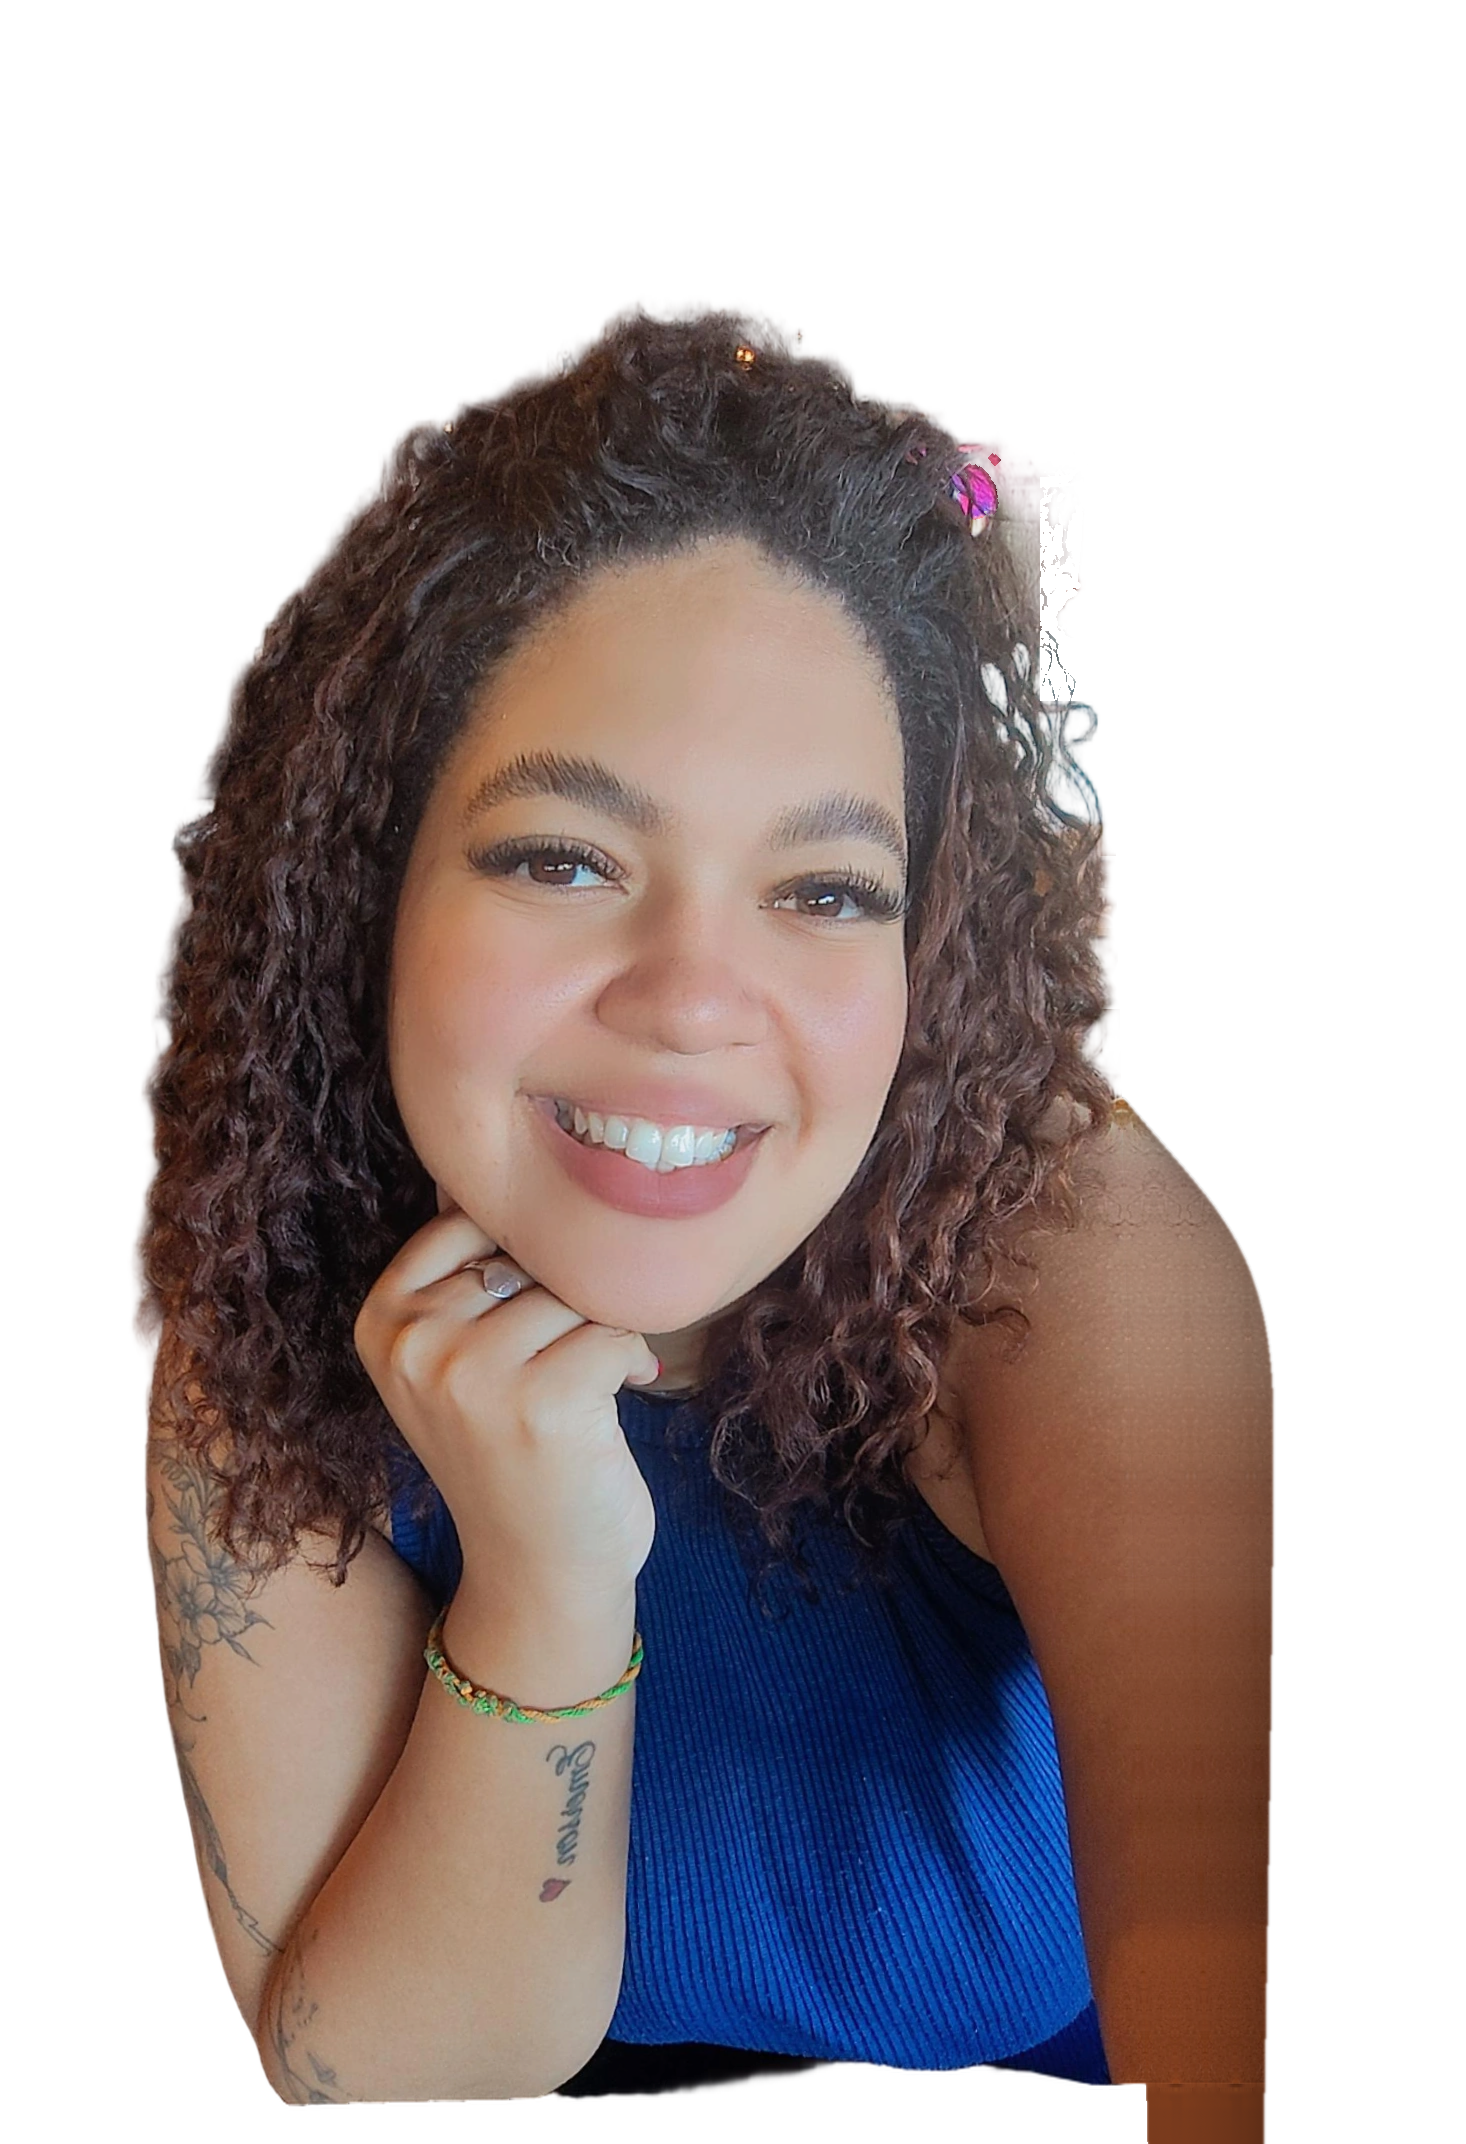
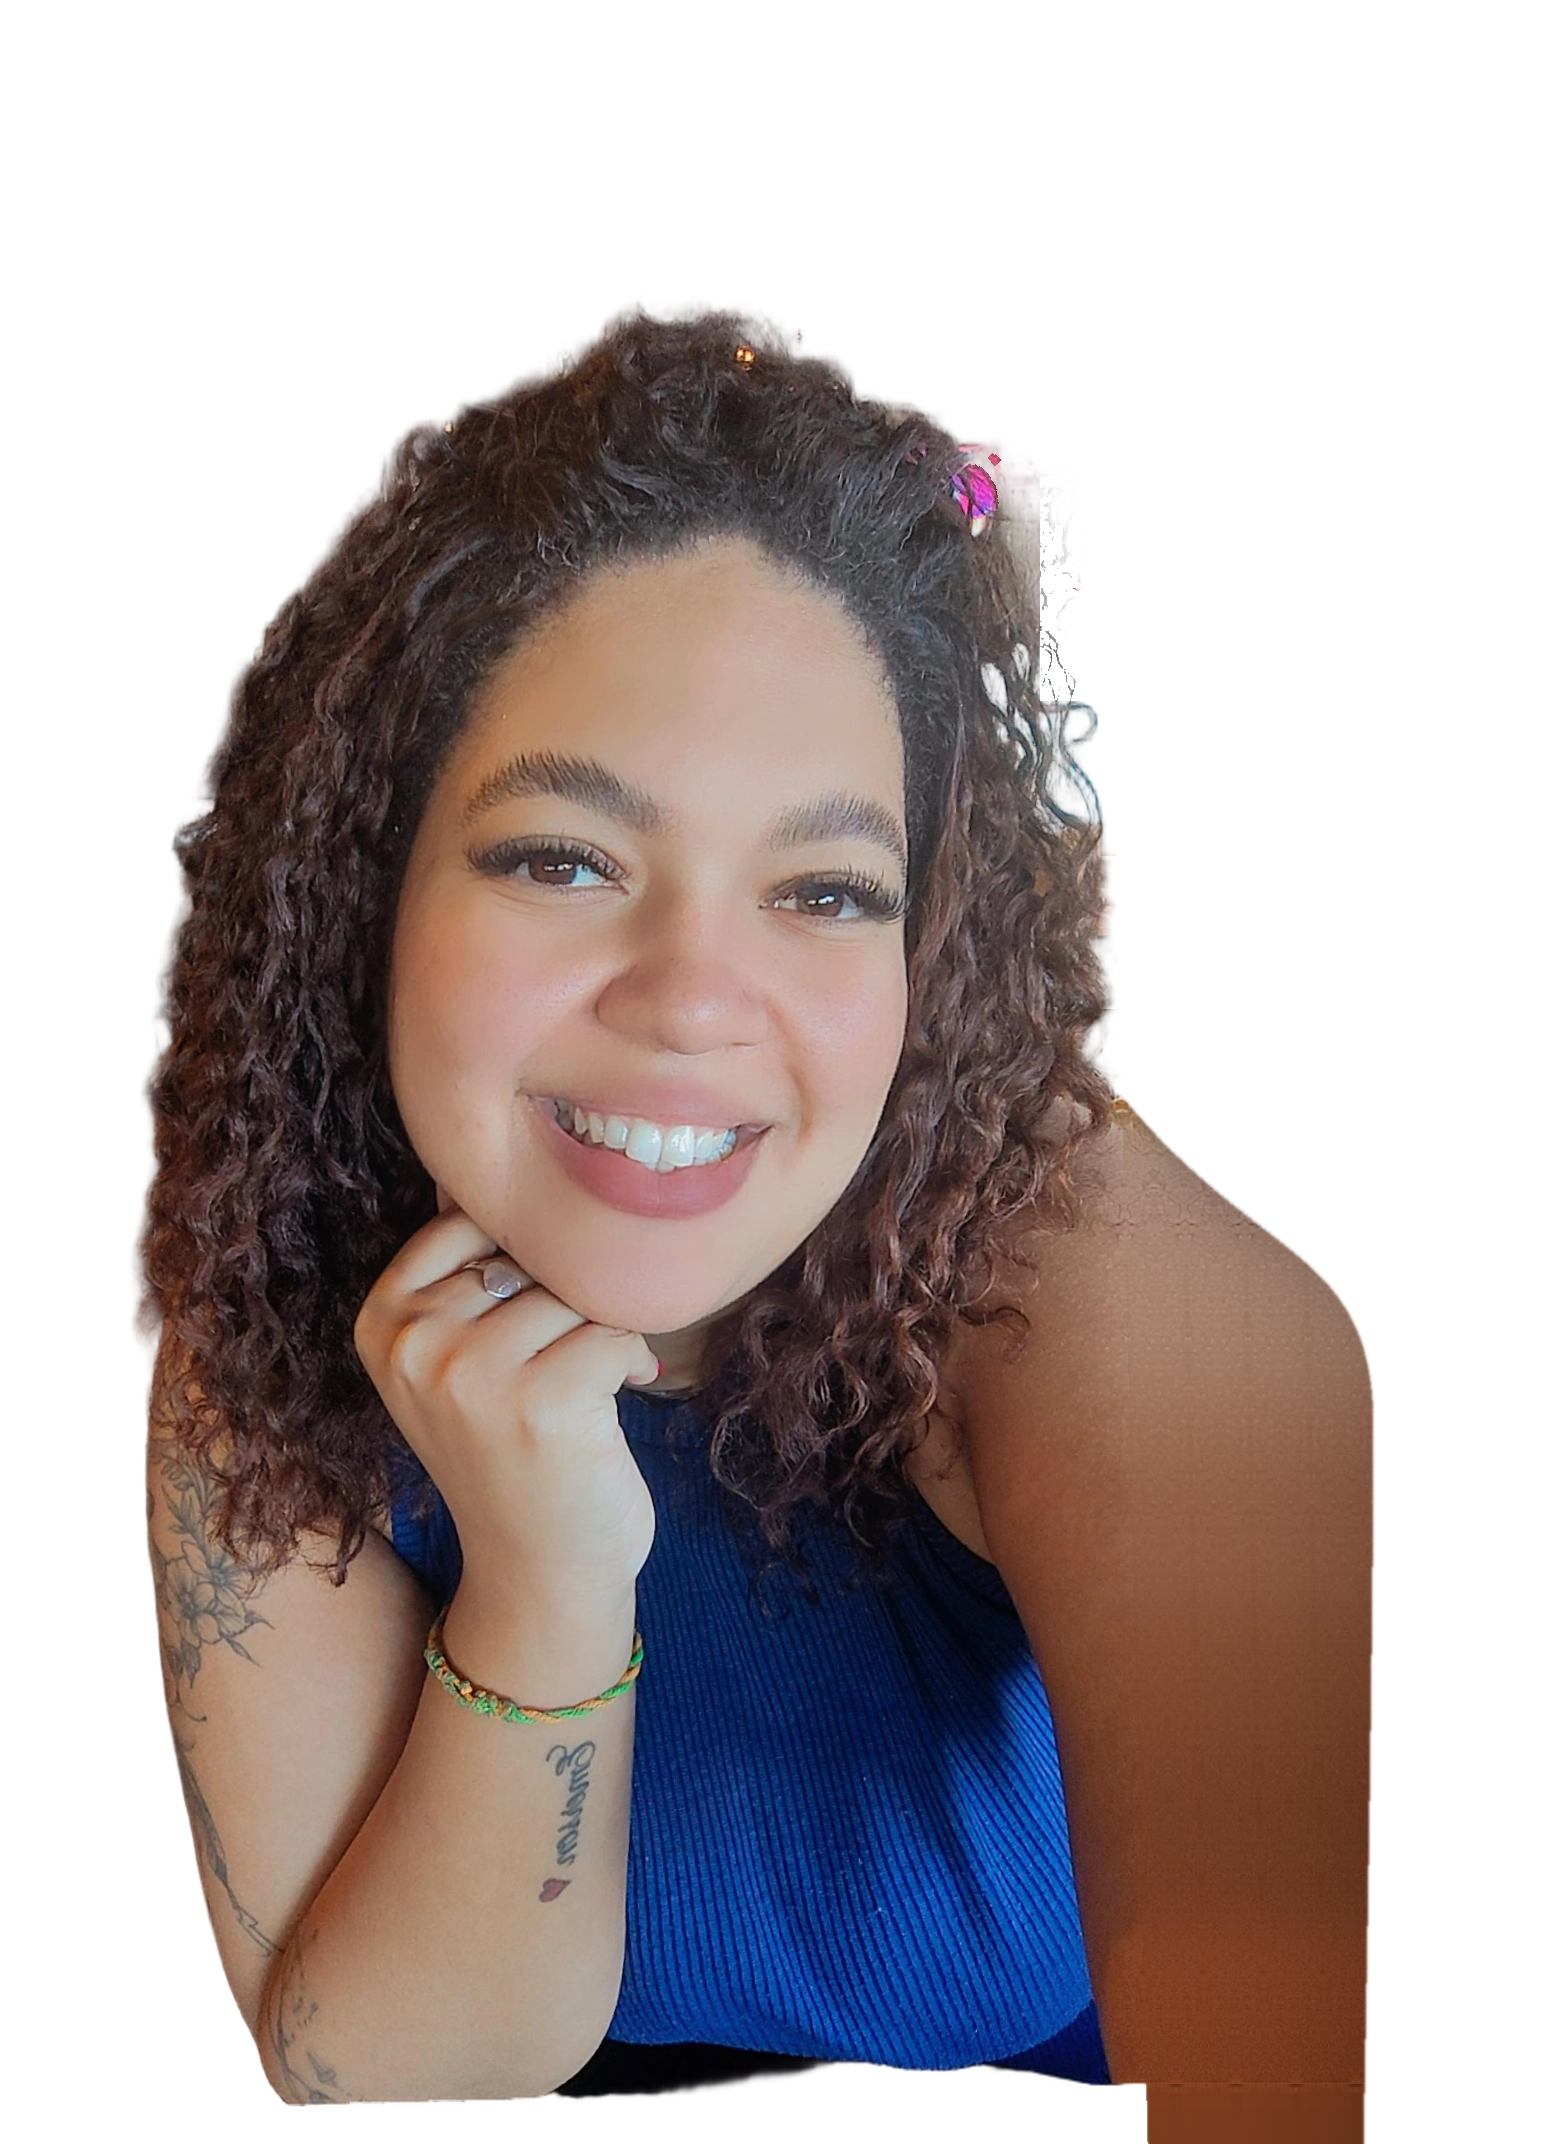
Inara: braco direito na grossura proporcional (250px alem da borda)
Com 150px o braco ficou fino. A referencia certa e o rosto e o antebraco
dela, nao o outro braco, que aparece de lado. A cor da pele completada foi
suavizada na vertical para nao listrar num braco largo.

Changed region(s): [[0.0614, 0.125, 0.8595, 1.0], [0.8595, 0.5938, 0.8902, 1.0]]

diff --git a/ferramentas/pessoas.py b/ferramentas/pessoas.py
@@ -510,12 +510,13 @@ PESSOAS = {
         # saía pela borda da foto: a pedido do Paulo, foi COMPLETADO além
         # dela, pele com a cor e a textura da borda. O contorno segue a
         # descida natural do ombro da foto (inclinação 1,2 na borda) até o
-        # braço, 150px além da borda, perto da grossura do outro braço dela.
-        # Foi o Paulo que ajustou: o ombro em bola (125px) ficou
-        # desproporcional, e com 110px "faltou completar o braço". As pontas
-        # dos cachos que encostavam na borda esmaecem em vez do corte reto.
-        # Lona 260px mais larga à direita; o rosto e o resto da foto ficam
-        # como no recorte. Enquadramento mais aberto que o das outras
+        # braço, 250px além da borda. A grossura vem do rosto e do antebraço
+        # dela: o outro braço aparece de lado e engana, e com 110 e 150px o
+        # braço ficou fino. O Paulo foi ajustando: o ombro em bola (125px)
+        # ficou desproporcional, e os finos "faltou completar o braço". As
+        # pontas dos cachos que encostavam na borda esmaecem em vez do corte
+        # reto. Lona 340px mais larga à direita; o rosto e o resto da foto
+        # ficam como no recorte. Enquadramento mais aberto que o das outras
         # (escala 0,165): com 0,19 a cabeça dominava o painel ("muito
         # cabeçuda", nas palavras do Paulo), e aberto aparecem a mão e a
         # pulseira.
